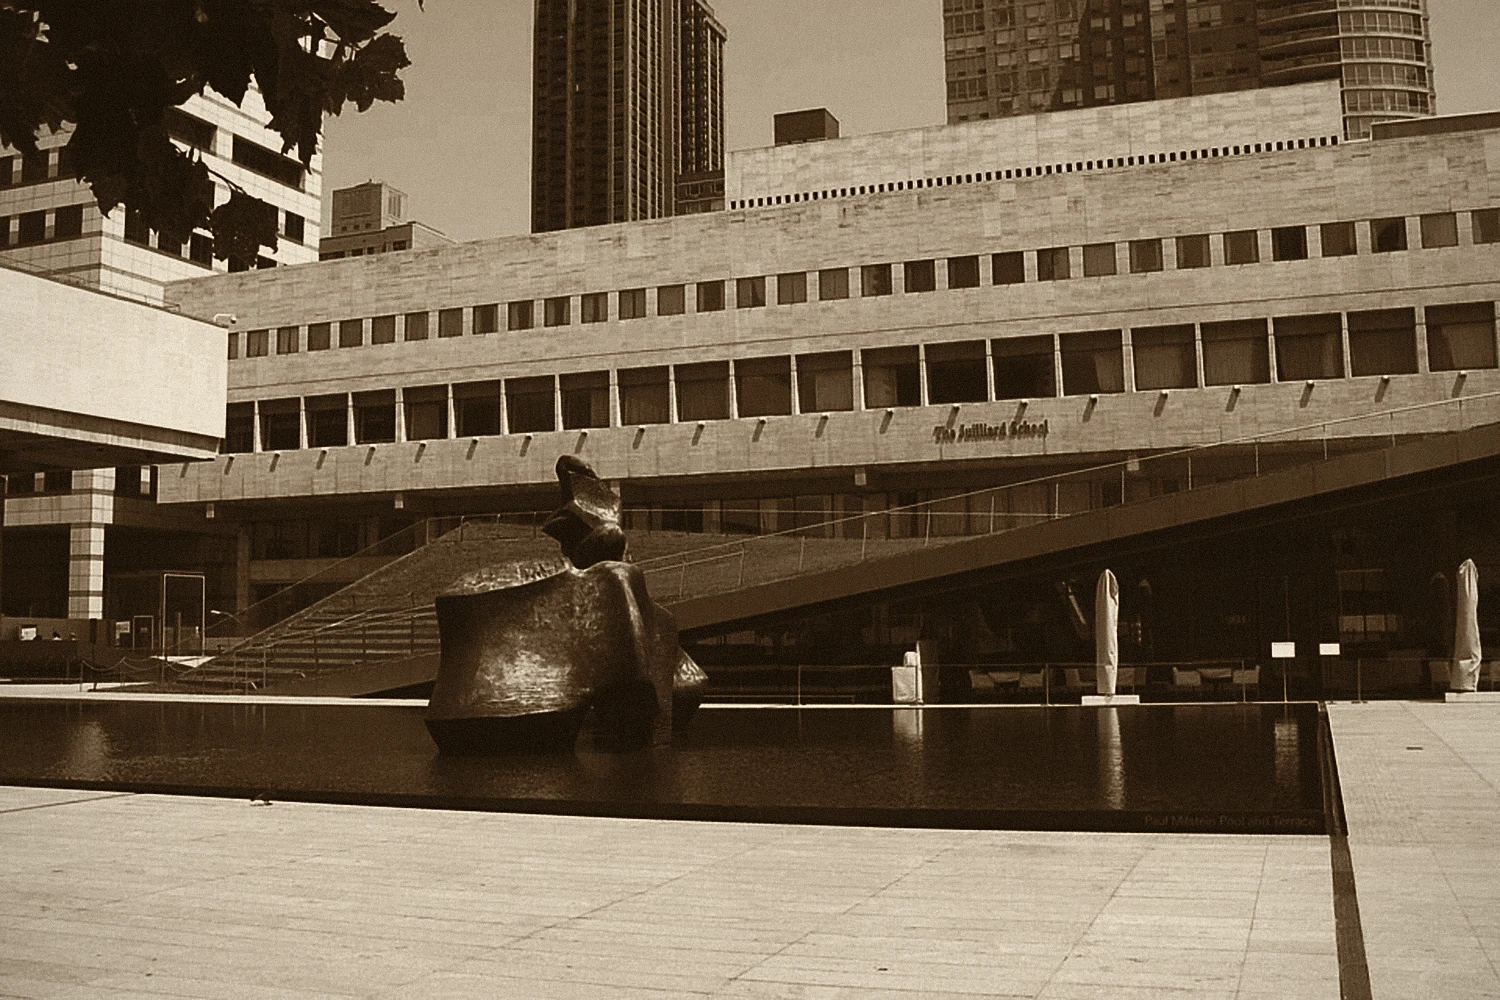
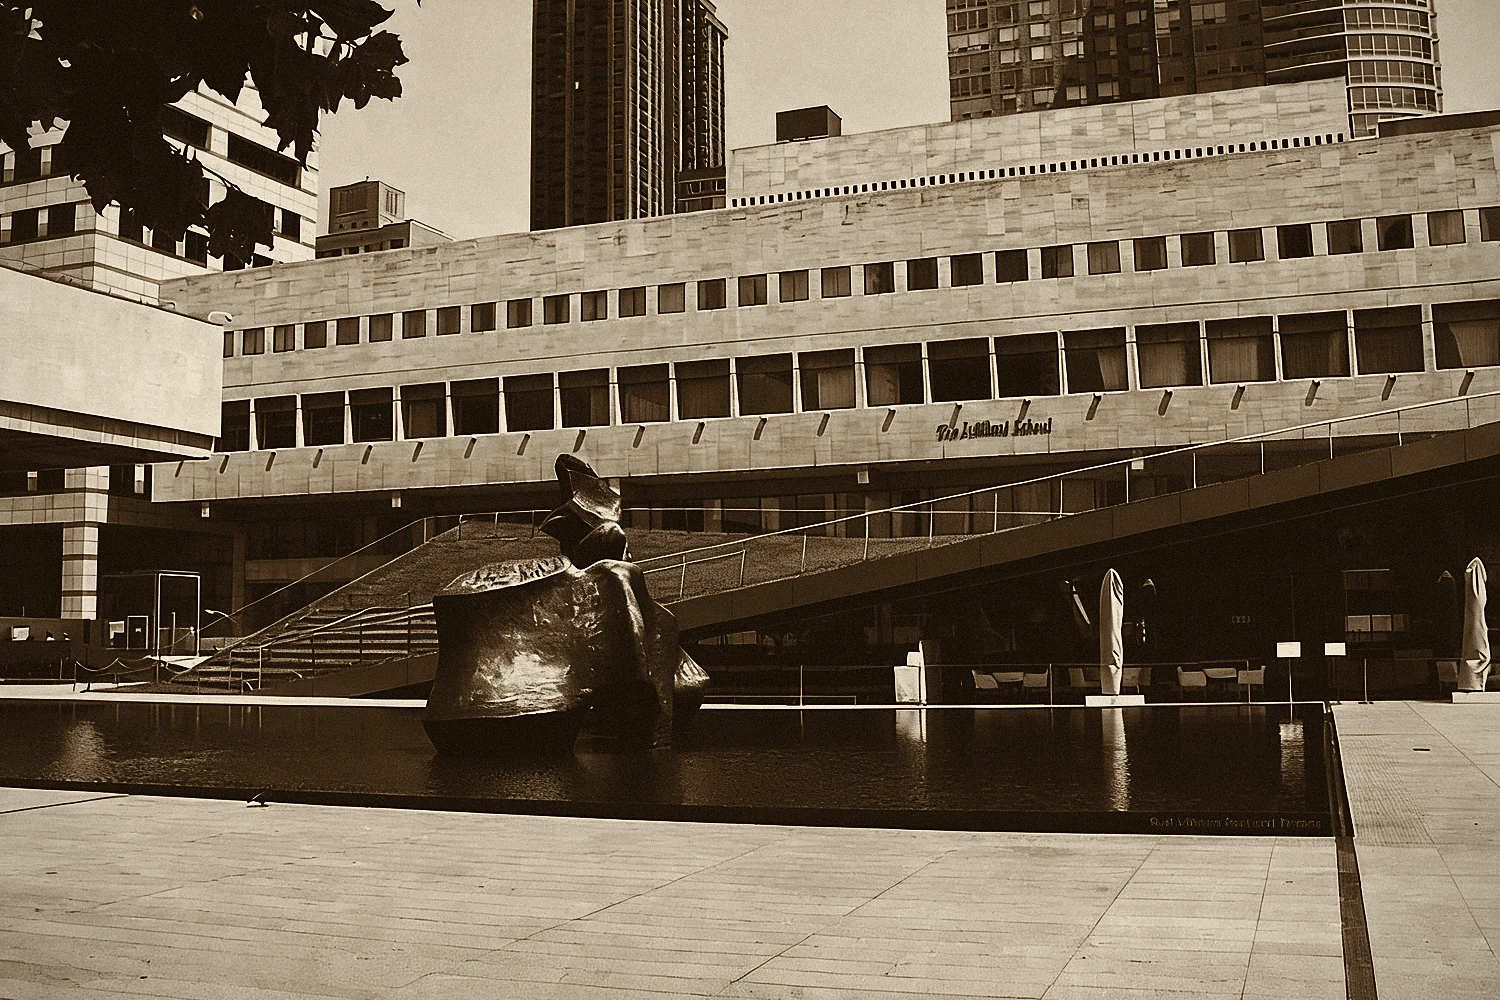
Снимки: цифровая реставрация вместо подавления растра
Владелец выбрал реставрацию: снимки должны выглядеть как фотография на первом экране.
Обработкой из скана 428×418 этого не добиться — либо сетка растра, либо мыло, — поэтому
исходники прогнаны через нейросетевую реставрацию (снятие растра, восстановление деталей),
а затем уже через сайтовый конвейер: кадрирование, сепия по палитре, зерно.

- 16 снимков: портреты 760×950, снимки 1500×1000, кадры в сетке 972×648;
- исходники реставрации лежат в _originals/restored-2026-11-17 (в git не входят, как и
  остальные оригиналы);
- в tools/photo_tone.py появился --src, чтобы прогонять конвейер по другому каталогу;
- в «О проекте» (RU и EN) добавлена оговорка: снимки прошли цифровую реставрацию,
  утраченные детали восстановлены приблизительно, это улучшенные копии, а не оригиналы.

Ограничение честно: на групповом снимке БСО лица восстановлены приблизительно —
опознать по нему конкретного человека нельзя, подпись называет только трёх участников.

diff --git a/src/ru/about.html b/src/ru/about.html
@@ -7,7 +7,7 @@
       <p>В этой версии нет регистрации, сбора пожертвований и приёма конкурсных заявок. Проект не заявляет связи с историческими конкурсами имени Блажевича. Личный помощник и идея нового конкурса не входят в первый выпуск.</p>
     </div>
     <div class="reveal about-credit">
-      <p class="note">Картинка на первом экране — художественная композиция, предоставленная владельцем сайта: Блажевич с тромбоном на фоне Большого зала консерватории и Большого театра; это не историческая фотография. Портрет в ней — художественное изображение, созданное с помощью ИИ по мотивам фотографии Блажевича 1903 года и тонированное в одну гамму с архивными снимками; это не историческая фотография. Исходная фотография 1903 года: <a href="https://commons.wikimedia.org/wiki/File:VM_Blazhevich_1903_Portrait_w-Signature.jpg">Wikimedia Commons</a>, общественное достояние (источник на Commons: А. Г. Харламов, ITA Journal, т. 36, № 3, 2008, с. 30–34). Здания в ней и в других местах сайта — по тонированным фотографиям из Wikimedia Commons: <a href="https://commons.wikimedia.org/wiki/File:Moscow_Cnservatory_1940-e.JPG">Московская консерватория имени Чайковского, 1940-е</a> и <a href="https://commons.wikimedia.org/wiki/File:Bolshoi_Theatre_1905.jpg">Большой театр, около 1905 года</a> (общественное достояние).</p>
+      <p class="note">Картинка на первом экране — художественная композиция, предоставленная владельцем сайта: Блажевич с тромбоном на фоне Большого зала консерватории и Большого театра; это не историческая фотография. Портрет в ней — художественное изображение, созданное с помощью ИИ по мотивам фотографии Блажевича 1903 года и тонированное в одну гамму с архивными снимками; это не историческая фотография. Исходная фотография 1903 года: <a href="https://commons.wikimedia.org/wiki/File:VM_Blazhevich_1903_Portrait_w-Signature.jpg">Wikimedia Commons</a>, общественное достояние (источник на Commons: А. Г. Харламов, ITA Journal, т. 36, № 3, 2008, с. 30–34). Здания в ней и в других местах сайта — по тонированным фотографиям из Wikimedia Commons: <a href="https://commons.wikimedia.org/wiki/File:Moscow_Cnservatory_1940-e.JPG">Московская консерватория имени Чайковского, 1940-е</a> и <a href="https://commons.wikimedia.org/wiki/File:Bolshoi_Theatre_1905.jpg">Большой театр, около 1905 года</a> (общественное достояние). Архивные снимки на страницах прошли цифровую реставрацию: растр печати и пятна убраны, утраченные детали восстановлены приблизительно — это улучшенные копии, а не сами оригиналы.</p>
     </div>
   </div>
   <div class="src-block reveal">

diff --git a/src/en/page.html b/src/en/page.html
@@ -396,7 +396,7 @@
       <p><a class="btn btn-ghost" href="../index.html">Русская версия →</a></p>
     </div>
     <div class="reveal about-credit">
-      <p class="note">The opening image is an artistic composition supplied by the site owner: Blazhevich with his trombone in front of the Great Hall of the Moscow Conservatory and the Bolshoi Theatre; it is not a historical photograph. The portrait in it is an AI-generated artistic image based on a 1903 photograph of Blazhevich (<a href="https://commons.wikimedia.org/wiki/File:VM_Blazhevich_1903_Portrait_w-Signature.jpg">Wikimedia Commons</a>, public domain; source listed on Commons: A. G. Kharlamov, ITA Journal 36/3, 2008, pp. 30–34), toned to match the archive photographs. It is not a historical photograph. The buildings follow photographs of the Tchaikovsky Moscow Conservatory in the 1940s and the Bolshoi Theatre around 1905 (public domain).</p>
+      <p class="note">The opening image is an artistic composition supplied by the site owner: Blazhevich with his trombone in front of the Great Hall of the Moscow Conservatory and the Bolshoi Theatre; it is not a historical photograph. The portrait in it is an AI-generated artistic image based on a 1903 photograph of Blazhevich (<a href="https://commons.wikimedia.org/wiki/File:VM_Blazhevich_1903_Portrait_w-Signature.jpg">Wikimedia Commons</a>, public domain; source listed on Commons: A. G. Kharlamov, ITA Journal 36/3, 2008, pp. 30–34), toned to match the archive photographs. It is not a historical photograph. The buildings follow photographs of the Tchaikovsky Moscow Conservatory in the 1940s and the Bolshoi Theatre around 1905 (public domain). The archive photographs on the pages have been digitally restored: the printing screen and stains were removed and lost details approximated; they are enhanced copies, not the originals.</p>
     </div>
   </div>
   <div class="src-block reveal">

diff --git a/tools/photo_tone.py b/tools/photo_tone.py
@@ -35,6 +35,7 @@ from pathlib import Path
 from PIL import Image, ImageChops, ImageDraw, ImageFilter, ImageFont, ImageOps, ImageStat
 
 ROOT = Path(__file__).resolve().parent.parent
+# по умолчанию — исходные сканы; --src переключает на каталог с реставрированными
 ORIG = ROOT / '_originals' / '2026-11-16'
 DEFAULT_OUT = ROOT / '_incoming' / 'retouch'
 
@@ -71,7 +72,7 @@ JOBS = [
     ('mail/hunsberger-usmc.webp', 'hunsberger-usmc.webp', PORTRAIT, 0.40, 'crop', 0.50),
     # снимок живёт в ячейке сетки 364 CSS px — ему хватает 972 px
     ('mail/edwards-trombone.webp', 'edwards-trombone.webp', (972, 648), 0.42, 'crop', 0.50),
-    ('mail/bso-trombones-1928.webp', 'bso-trombones-1928.webp', PLATE, 0.50, 'fit', 0.50),
+    ('mail/bso-trombones-1928.webp', 'bso-trombones-1928.webp', (972, 648), 0.50, 'fit', 0.50),
     ('mail/lindberg-960.webp', 'lindberg-960.webp', PORTRAIT, 0.40, 'crop', 0.50),
     # снимки школ США (загрузки из Wikimedia, исходники сохранены в _originals/wiki)
     ('wiki/eastman.webp', 'us-schools/eastman.webp', PLATE, 0.50, 'crop', 0.50),
@@ -571,7 +572,11 @@ def main() -> int:
     ap.add_argument('--asset-dir', default=str(ROOT / 'assets'), help='откуда брать «до» для метрик')
     ap.add_argument('--sheet', action='store_true', help='собрать контактный лист до/после')
     ap.add_argument('--only', default='', help='обработать только файлы, в имени которых есть подстрока')
+    ap.add_argument('--src', default='', help='каталог исходников внутри _originals (например restored-2026-11-17)')
     a = ap.parse_args()
+    global ORIG
+    if a.src:
+        ORIG = ROOT / '_originals' / a.src
 
     out_dir = Path(a.out)
     if not out_dir.is_absolute():
